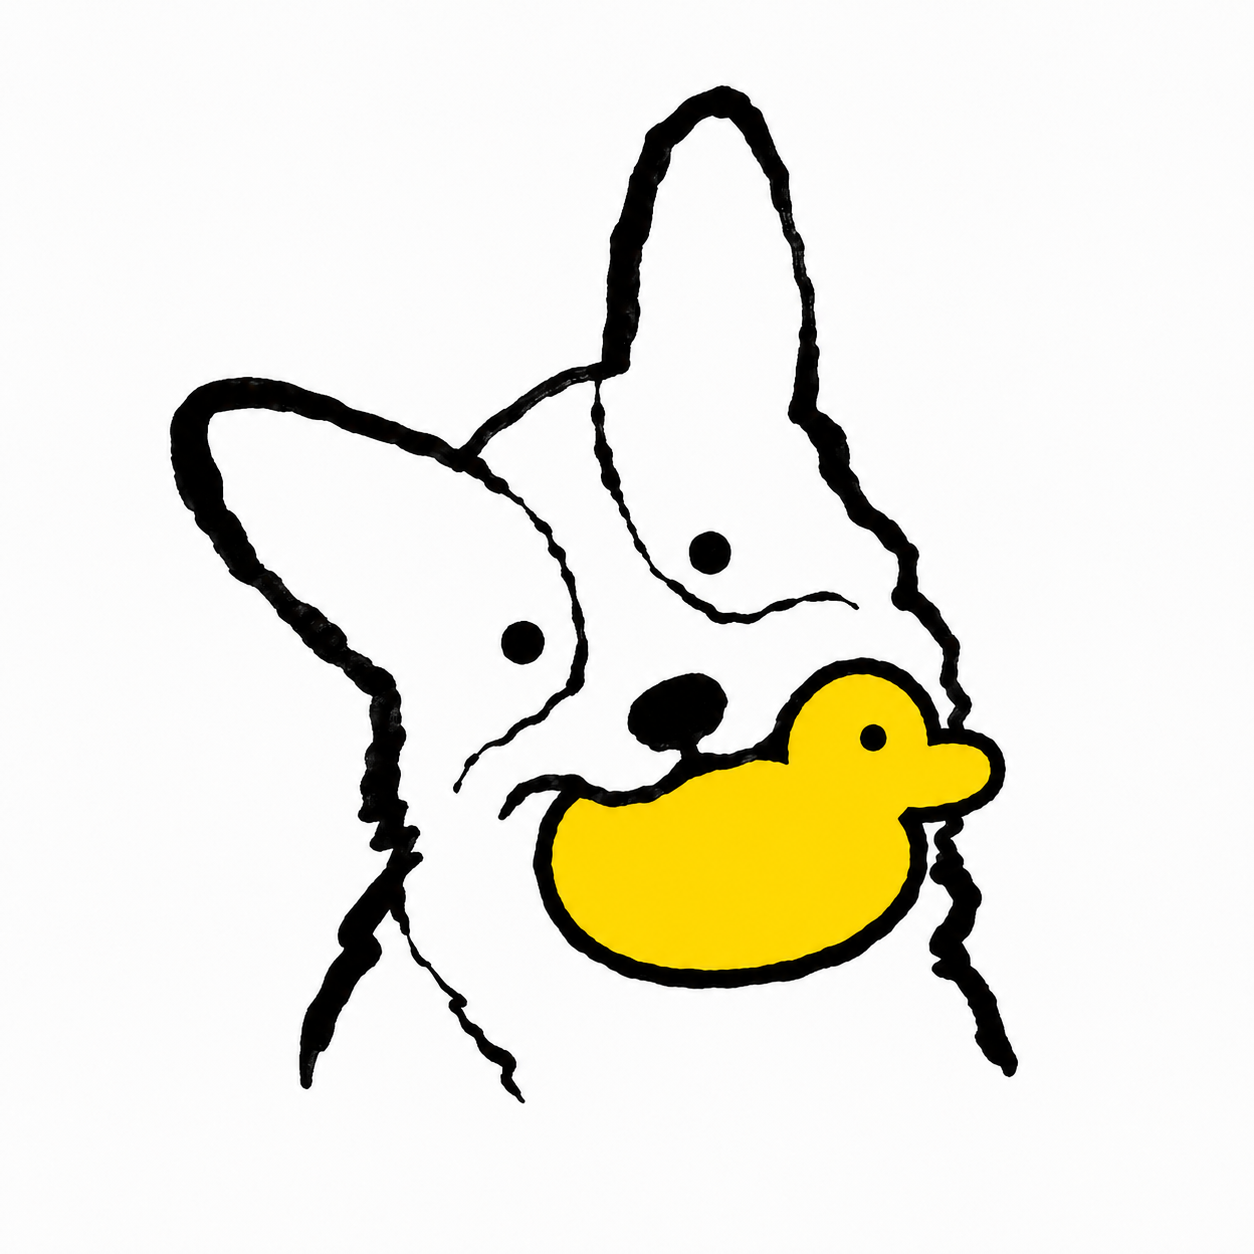
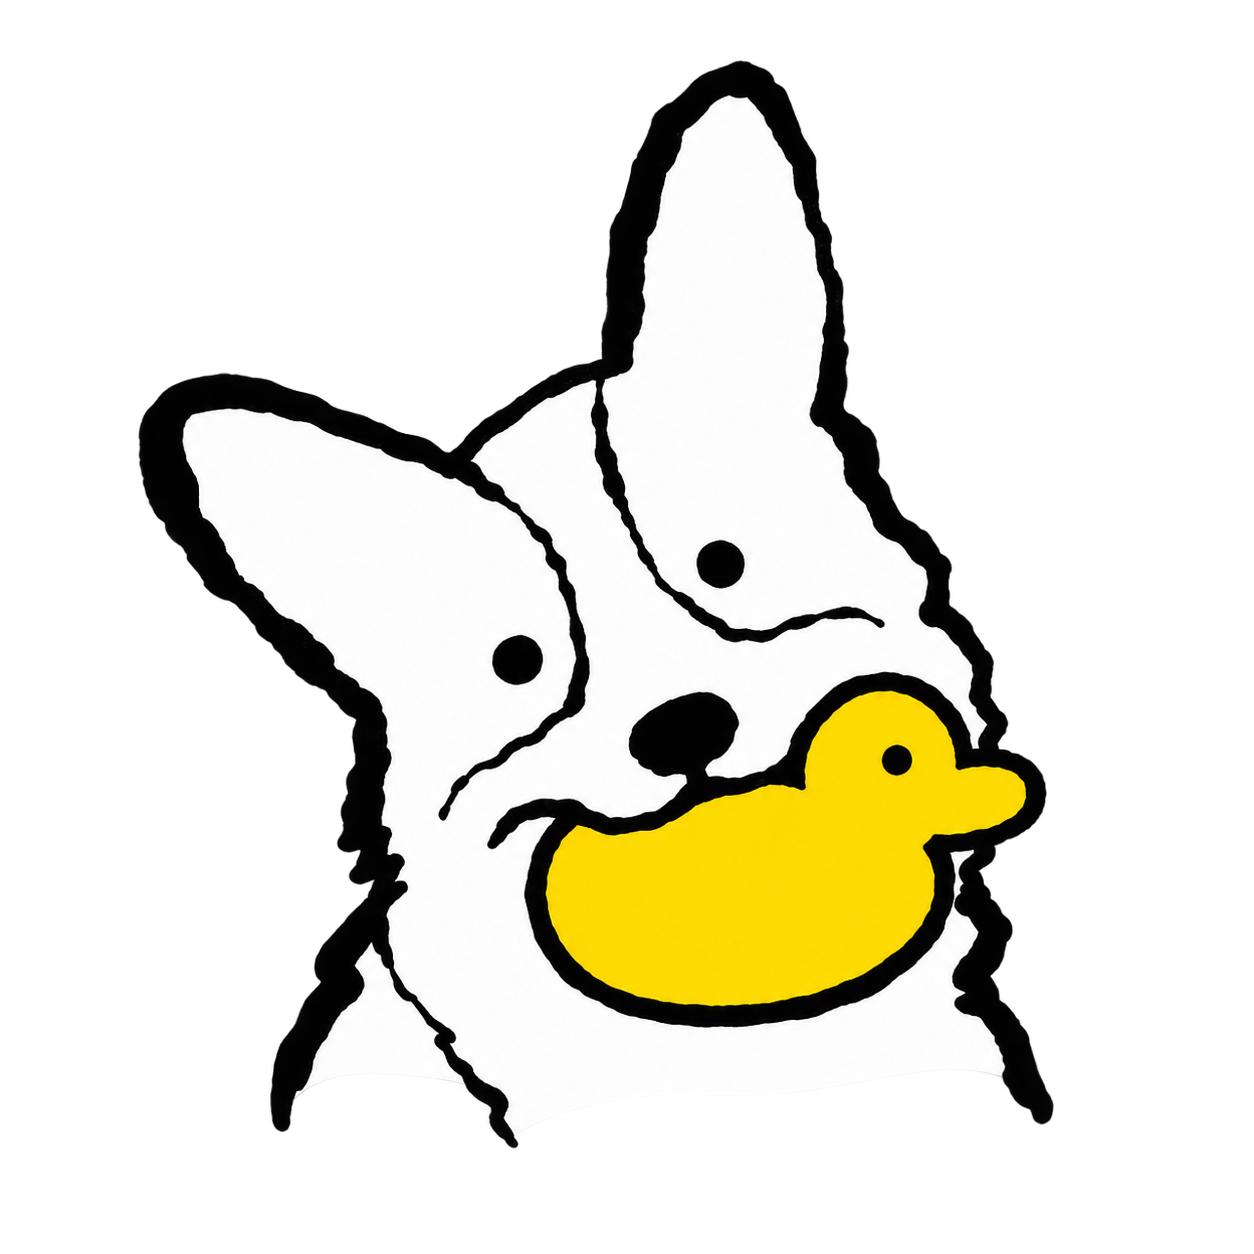
docs: the mark, cut out properly
The drawing's outline is open in several places, so no flood fill can find an
inside to keep white; segmentation can, because it knows what a dog is. The
cut-out keeps the white body and the yellow duck, which is why one file now
works on both themes and the light/dark pair is gone.

Claude-Session: https://claude.ai/code/session_01LuyRvbC8WpE6Wrr6KjCrPi

diff --git a/README.md b/README.md
@@ -1,8 +1,5 @@
 <p align="center">
-  <picture>
-    <source media="(prefers-color-scheme: dark)" srcset="assets/logo-dark.png">
-    <img src="assets/logo.png" width="220" alt="A corgi, head tilted, holding a rubber duck in its mouth, entirely unbothered">
-  </picture>
+  <img src="assets/logo.png" width="220" alt="A corgi, head tilted, holding a rubber duck in its mouth, entirely unbothered">
 </p>
 
 <h1 align="center">gu-ask-real</h1>
